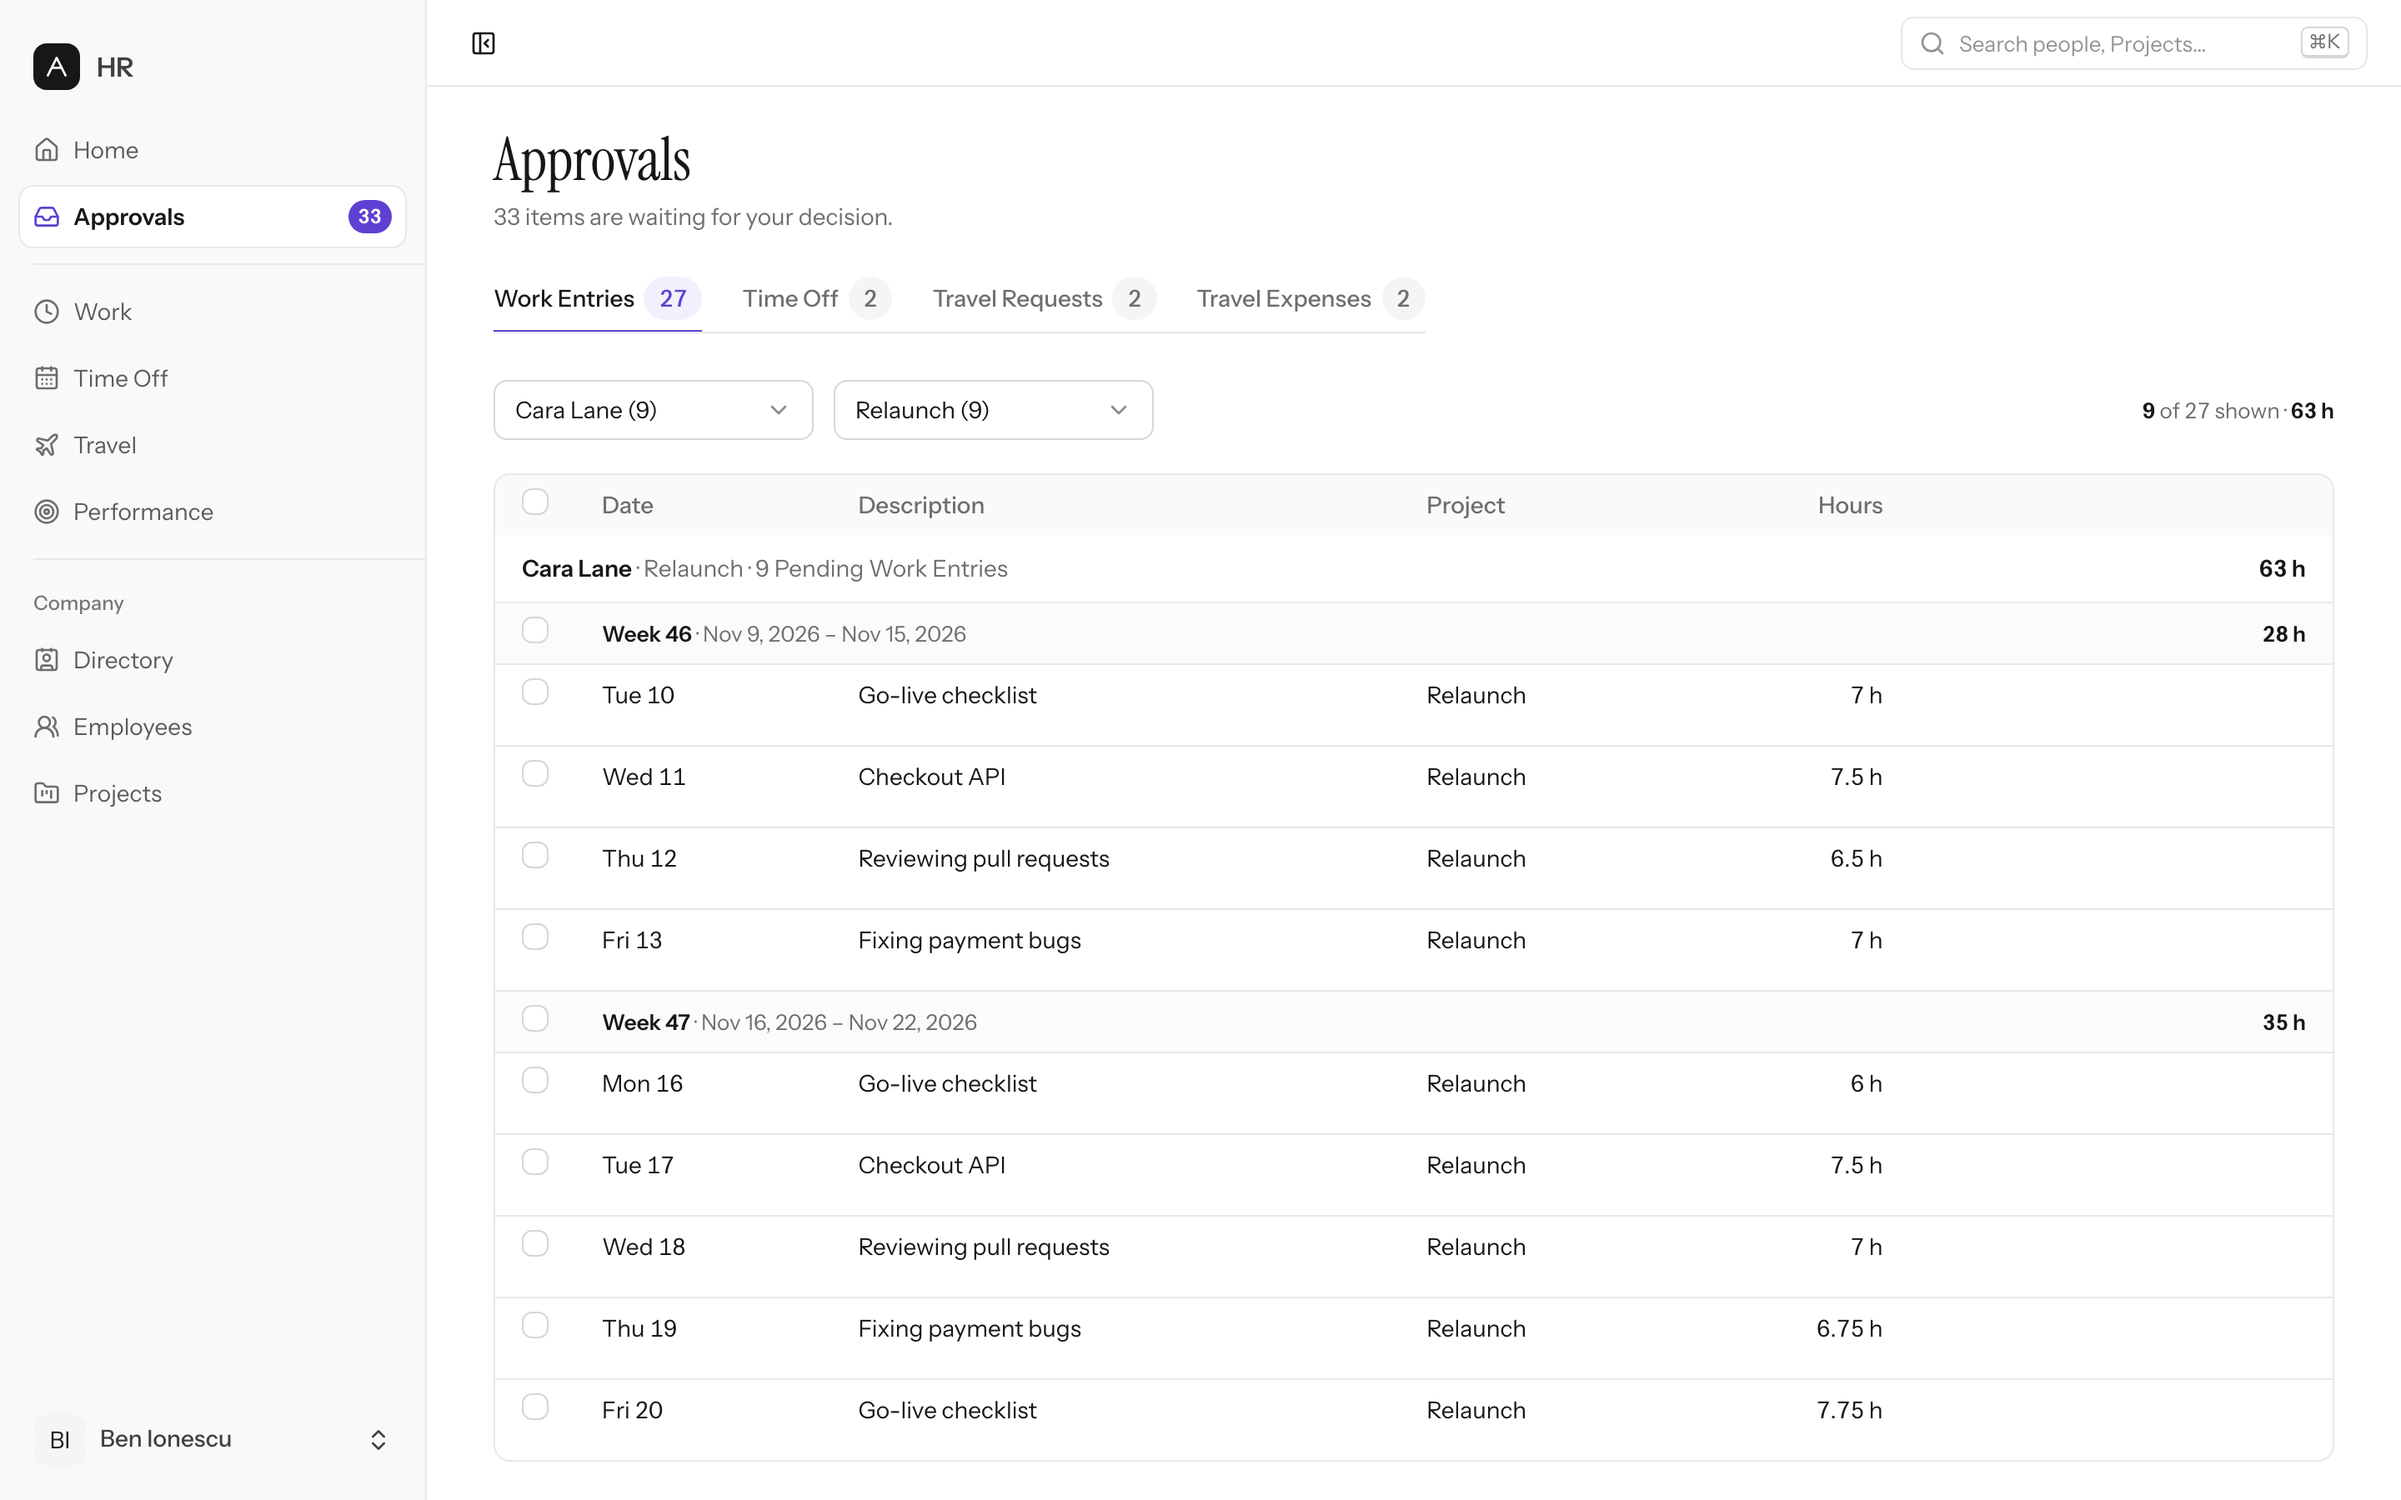
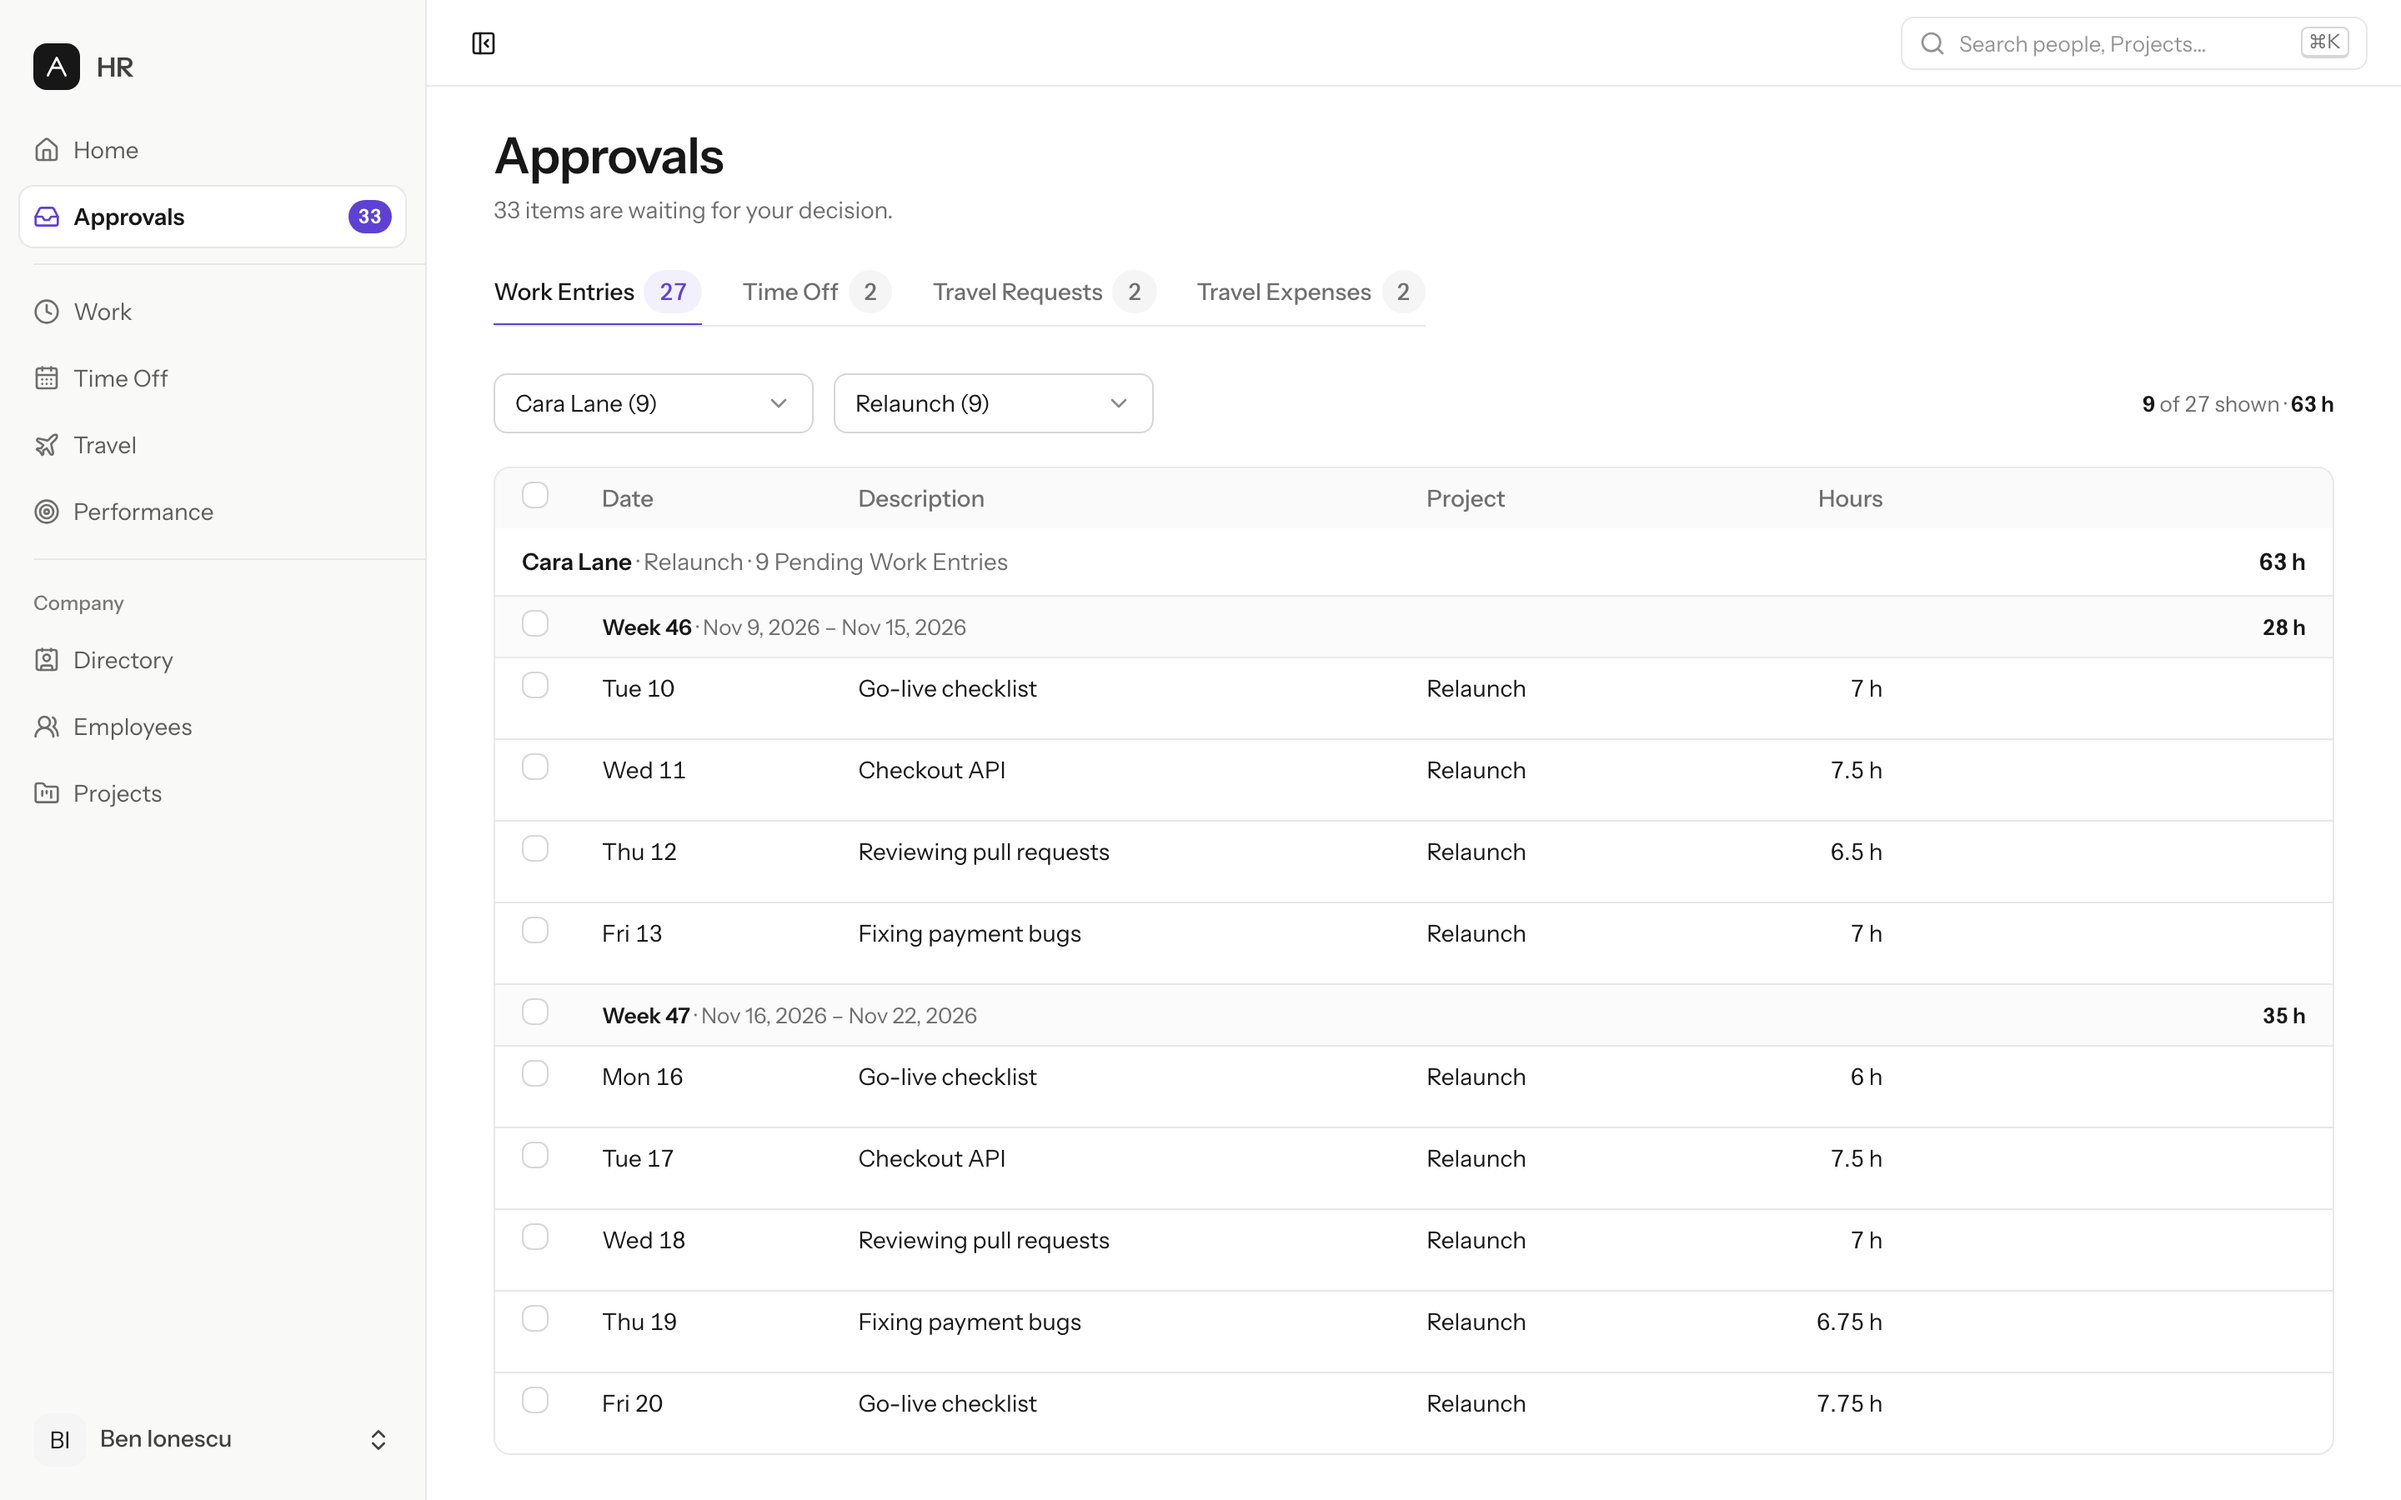
Set page headings in the sans font
Page headings move from Instrument Serif to Instrument Sans semibold
(30/36, 24/32 on phones), so the whole UI uses one family and the
serif is no longer loaded. Rules F8 and F9 and the design system docs
describe the new headings, and the README screenshots are retaken.

Closes #449

diff --git a/resources/css/app.css b/resources/css/app.css
@@ -10,7 +10,7 @@
 
 /*
   Ledger tokens: docs/design-system/04-tokens.css (rules F1–F20).
-  Fonts (Instrument Sans, Instrument Serif) are self-hosted by laravel-vite-plugin's
+  Instrument Sans is self-hosted by laravel-vite-plugin's
   font helper in vite.config.ts, so the package's @fontsource imports are left out.
 */
 
@@ -107,15 +107,17 @@
     --font-sans:
         'Instrument Sans Variable', 'Instrument Sans', ui-sans-serif, system-ui,
         sans-serif;
-    --font-display: 'Instrument Serif', ui-serif, Georgia, serif;
     --font-mono: ui-monospace, 'SF Mono', Menlo, monospace;
 
     /* type scale (rule F9) */
-    --text-title: 2.25rem;
-    --text-title--line-height: 2.5rem;
-    --text-title--letter-spacing: -0.01em;
-    --text-title-sm: 1.75rem;
+    --text-title: 1.875rem;
+    --text-title--line-height: 2.25rem;
+    --text-title--letter-spacing: -0.02em;
+    --text-title--font-weight: 600;
+    --text-title-sm: 1.5rem;
     --text-title-sm--line-height: 2rem;
+    --text-title-sm--letter-spacing: -0.02em;
+    --text-title-sm--font-weight: 600;
     --text-section: 1rem;
     --text-section--line-height: 1.5rem;
     --text-section--font-weight: 600;

diff --git a/docs/design-system/04-tokens.css b/docs/design-system/04-tokens.css
@@ -96,15 +96,17 @@
     --font-sans:
         'Instrument Sans Variable', 'Instrument Sans', ui-sans-serif, system-ui,
         sans-serif;
-    --font-display: 'Instrument Serif', ui-serif, Georgia, serif;
     --font-mono: ui-monospace, 'SF Mono', Menlo, monospace;
 
     /* type scale (rule F9) */
-    --text-title: 2.25rem;
-    --text-title--line-height: 2.5rem;
-    --text-title--letter-spacing: -0.01em;
-    --text-title-sm: 1.75rem;
+    --text-title: 1.875rem;
+    --text-title--line-height: 2.25rem;
+    --text-title--letter-spacing: -0.02em;
+    --text-title--font-weight: 600;
+    --text-title-sm: 1.5rem;
     --text-title-sm--line-height: 2rem;
+    --text-title-sm--letter-spacing: -0.02em;
+    --text-title-sm--font-weight: 600;
     --text-section: 1rem;
     --text-section--line-height: 1.5rem;
     --text-section--font-weight: 600;

diff --git a/resources/js/components/PageHeader.vue b/resources/js/components/PageHeader.vue
@@ -36,7 +36,7 @@ onUnmounted(() => {
             <slot name="lead" />
             <div class="flex min-w-0 flex-col gap-1">
                 <div class="flex flex-wrap items-center gap-x-3 gap-y-1">
-                    <h1 class="font-display text-title-sm sm:text-title">
+                    <h1 class="text-title-sm sm:text-title">
                         {{ title }}
                     </h1>
                     <slot name="status" />

diff --git a/resources/js/layouts/auth/AuthSimpleLayout.vue b/resources/js/layouts/auth/AuthSimpleLayout.vue
@@ -22,7 +22,7 @@ defineProps<{
                     <AppMark />
                 </Link>
                 <div class="flex flex-col gap-1.5">
-                    <h1 class="font-display text-title-sm">{{ title }}</h1>
+                    <h1 class="text-title-sm">{{ title }}</h1>
                     <p
                         v-if="description"
                         class="text-body text-muted-foreground"

diff --git a/vite.config.ts b/vite.config.ts
@@ -15,9 +15,6 @@ export default defineConfig({
                 bunny('Instrument Sans', {
                     weights: [400, 500, 600],
                 }),
-                bunny('Instrument Serif', {
-                    weights: [400],
-                }),
             ],
         }),
         inertia(),

diff --git a/docs/design-system/05-components.md b/docs/design-system/05-components.md
@@ -35,7 +35,7 @@
 | **StatusBadge**                             | **Restyle**                           | Icon + word; icon is set by colour (S7); 12px; status mapping table lives in one `statusMeta.ts` (S9).                                                                                                                                                                                                                                                                                                                                                                                                                                        |
 | **StatusDot**                               | **Replace** → `StatusIcon`            | Icon-only variant with sr-only word (S10).                                                                                                                                                                                                                                                                                                                                                                                                                                                                                                    |
 | **EmptyState**                              | **Restyle**                           | 20px icon in a muted circle, sentence, optional action; `variant="filtered"` with Clear filters (S2).                                                                                                                                                                                                                                                                                                                                                                                                                                         |
-| **Heading**                                 | **Replace** → `PageHeader`            | Adds serif title, status slot, description, actions slot, phone stacking (L3, P3). Update the lint script to require `PageHeader`.                                                                                                                                                                                                                                                                                                                                                                                                            |
+| **Heading**                                 | **Replace** → `PageHeader`            | Adds title, status slot, description, actions slot, phone stacking (L3, P3). Update the lint script to require `PageHeader`.                                                                                                                                                                                                                                                                                                                                                                                                            |
 | **PageContainer**                           | **Restyle**                           | `width="full"` (fluid, max 1600) and `width="form"` (672); gutters per F13 (L2).                                                                                                                                                                                                                                                                                                                                                                                                                                                              |
 | Pagination                                  | **Restyle**                           | Ghost buttons, "1–50 of 312" summary.                                                                                                                                                                                                                                                                                                                                                                                                                                                                                                         |
 | **PeriodNavigation / MonthPicker**          | **Restyle**                           | `PeriodNavigation`: segmented Week · Month · Custom, ‹ label ›, Today; Custom uses DateRangePicker (K16). Its Month mode is `MonthPicker` (‹ month ›, month-and-year picker, "This month"), which the Work Entries page also uses on its own.                                                                                                                                                                                                                                                                                                 |
@@ -119,7 +119,7 @@
 
 Not needed:
 
-- **Fonts:** laravel-vite-plugin's font helper self-hosts Instrument Sans and Instrument Serif (`vite.config.ts`, see `resources/css/app.css`).
+- **Fonts:** laravel-vite-plugin's font helper self-hosts Instrument Sans (`vite.config.ts`, see `resources/css/app.css`).
 - **Charts:** Home's single bar chart is a few divs (K18).
 - **Date picker:** reka-ui ships Calendar, DatePicker and DateRangePicker.
 - **Drag-and-drop upload:** native drag events plus `<input type="file" capture>`.

diff --git a/docs/design-system/03-design-system.md b/docs/design-system/03-design-system.md
@@ -20,8 +20,8 @@
 
 ### Type
 
-- **F8** Two families: `font-display` (Instrument Serif) for the page `<h1>` only; `font-sans` (Instrument Sans) for everything else.
-- **F9** Use the scale tokens only: `text-title` (36/40 serif), `text-title-sm` (28/32 serif, phone), `text-section` (16/24 semibold), `text-body` (14/20), `text-meta` (13/18), `text-caption` (12/16), `text-stat` (22/28 semibold). No arbitrary `text-[15px]`.
+- **F8** One family: `font-sans` (Instrument Sans) for everything, page `<h1>` included.
+- **F9** Use the scale tokens only: `text-title` (30/36 semibold), `text-title-sm` (24/32 semibold, phone), `text-section` (16/24 semibold), `text-body` (14/20), `text-meta` (13/18), `text-caption` (12/16), `text-stat` (22/28 semibold). No arbitrary `text-[15px]`.
 - **F10** Nothing smaller than 12px (`text-caption`), including badges, column headers and legends.
 - **F11** Hours, money, dates in tables, counts and stats use `tabular-nums`; numeric columns are right-aligned.
 - **F12** Weights: 400 body, 500 labels and table headers, 600 headings, values and stats; no 700+.

diff --git a/docs/design-system/README.md b/docs/design-system/README.md
@@ -22,4 +22,4 @@ Mockups are self-contained HTML (inline CSS/JS; Google Fonts with a system fallb
 3. **Scope switch labels** are _Mine · Reports · Everyone_.
 4. **Verbs:** "Give a Goal" becomes **Add Goal**, and every "Change" becomes **Edit** (rule C3).
 5. **Approve** acts immediately with a toast; there's no confirmation and no undo. Mistakes are fixed with Reopen (rule X5).
-6. **Fonts:** Instrument Sans and Instrument Serif are self-hosted by laravel-vite-plugin's font helper (`vite.config.ts`); no font package is added.
+6. **Fonts:** Instrument Sans is self-hosted by laravel-vite-plugin's font helper (`vite.config.ts`); no font package is added.
